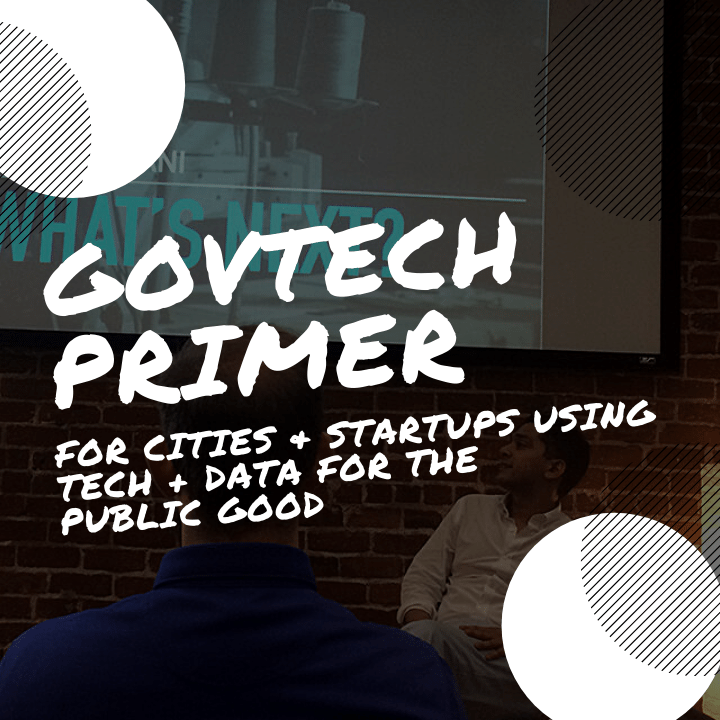
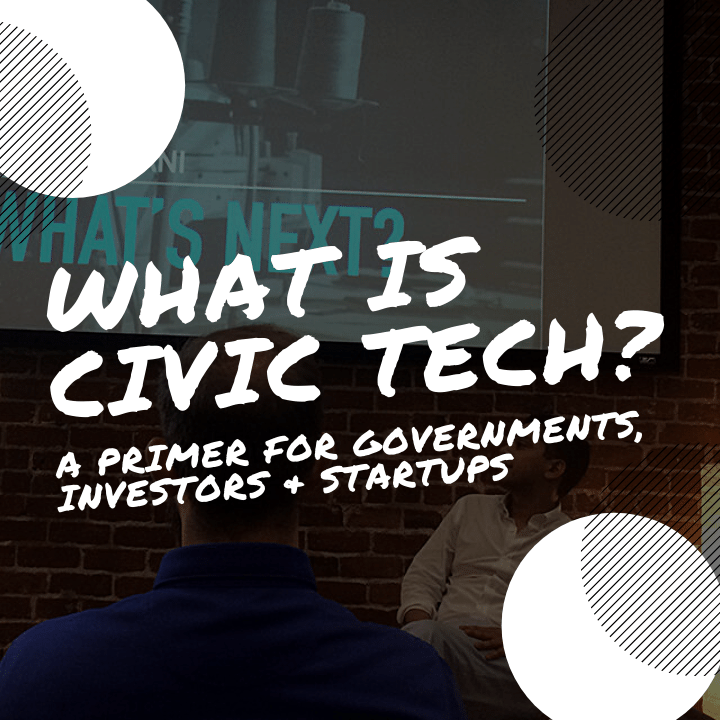
edited academy

Changed region(s): [[0.0611, 0.275, 0.9472, 0.7639]]

diff --git a/academy.html b/academy.html
@@ -38,7 +38,7 @@ img: pia-social.png
                 <div class="wp-content">
                     <div class="wrap wrap-center">
                         <h2>Introductory Lessons<a name="lessons"></a></h2>
-                        <div class="block-columns gallery-columns columns-4 wide-columns lightgallery-off">
+                        <div class="block-columns gallery-columns columns-3 wide-columns lightgallery-off">
 							
 							{% for lesson in site.lessons %}
                             <div class="block-column">

diff --git a/_lessons/1-primer.md b/_lessons/1-primer.md
@@ -1,25 +1,30 @@
 ---
 layout: page
-title: The Primer
-subhead: Introductory deck on civic tech
+title: Civic Tech & Smart Cities Primer
+subhead: Background materials on the definition and impact of civic technology 
 categories: Academy
 img: pia-header.png
 socialimg: pia-social.png
 pubdate: Updated 2021
 number: 1
-permalink: /lessons/primer/
+permalink: /academy/primer/
 ---
-I’m often tasked with giving an introduction on local government innovation — to new mayors, potential investors, etc — and after a couple dozen hacked together presentations, I decided to put some effort into it, and put together this document.
+What is civic technology? This primer reviews three key areas of impact from the last few years: digital services, data science/analytics, and civic entrepreneurship. It closes with a high-level set of recommendations including policy and staffing. The document serves as a presentation or a leave behind.
+
+## 21st Century Cities & Civic Technology Primer
 
 <div class="container-iframe">
 <iframe id="pdf-js-viewer" src="{{site.url}}/decks/web/viewer.html?file={{site.url}}/decks/%2F21stCitiesPrimer.pdf" title="webviewer" frameborder="0" class="responsive-iframe"></iframe>
 </div>
 <a href="{{site.url}}/decks/web/viewer.html?file={{site.url}}/decks/%2F21stCitiesPrimer.pdf">Open PDF in Browser</a>
 
-Since the definition of a “21st Century City” seems elusive, or controversial, I did what I do: tell some stories.
+## Industry Deep Dive
 
-It’s a kind of “greatest hits” with simple examples and takeaways from three key areas of impact from the last few years: digital services, data science/analytics, and civic entrepreneurship. It closes with a high-level set of recommendations including policy and staffing. This way it works as a presentation or a leave behind.
+Over the last 10+ years, hundreds of governments have expirimented with thousands of new approaches to address age old policy and adminstrative issues. Some worked, some didn't — most fall somewhere in between. This presentation charts the themes in public innovation, marked with real-world examples with directions on where to learn more.
 
-I’ve found it helpful in various setting — conferences, pitches, and just casual conversations — so in the interest of transparency, I figured I’d share it publicly.
+<div class="container-iframe">
+<iframe id="pdf-js-viewer" src="{{site.url}}/decks/web/viewer.html?file={{site.url}}/decks/lectures/CAPP2.pdf" title="webviewer" frameborder="0" width="500" height="600" class="responsive-iframe"></iframe>
+</div>
+<a href="{{site.url}}/decks/web/viewer.html?file={{site.url}}/decks/lectures/CAPP2.pdf">Open PDF in Browser</a>
 
-Share, comment, and critique freely.
+If you're interested in learning more about these examples, <a href="mailto:abhi.nemani@gmail.com">don't hesitate to get in touch</a>

diff --git a/index.md b/index.md
@@ -176,7 +176,7 @@ img: main-social.jpg
 						<div class="block-column">
 							<figure class="block-caption img-caption">
 								<div class="img-wrap">
-									<a href="{{site.url}}/primer/">
+									<a href="{{site.url}}/academy/primer/">
 										<img src="{{site.url}}/img/lessons/1.png" alt="GovTech Primer">
 									</a>
 								</div>
@@ -185,21 +185,21 @@ img: main-social.jpg
 						<div class="block-column">
 							<figure class="block-caption img-caption">
 								<div class="img-wrap">
-									<a href="{{site.url}}/lessons/ecosystem/"><img src="{{site.url}}/img/lessons/8.png" alt="City Hall 101"></a>
+									<a href="{{site.url}}/academy/city-101/"><img src="{{site.url}}/img/lessons/8.png" alt="City Hall 101"></a>
 								</div>
 							</figure>
 						</div>
 						<div class="block-column">
 							<figure class="block-caption img-caption">
 								<div class="img-wrap">
-									<a href="{{site.url}}/blog/"><img src="{{site.url}}/img/lessons/7.png" alt="Essays"></a>
+									<a href="{{site.url}}/academy/careers/"><img src="{{site.url}}/img/lessons/10.png" alt="Getting Started in Civic Tech"></a>
 								</div>
 							</figure>
 						</div>
 						<div class="block-column">
 							<figure class="block-caption img-caption">
 								<div class="img-wrap">
-									<a href="{{site.url}}/resources/"><img src="{{site.url}}/img/lessons/10.png" alt="Getting Started"></a>
+									<a href="{{site.url}}/academy/data-policy"><img src="{{site.url}}/img/lessons/7.png" alt="Data Driven Policy Making"></a>
 								</div>
 							</figure>
 						</div>

diff --git a/_lessons/5-it-spending.md b/_lessons/5-it-spending.md
@@ -7,7 +7,7 @@ pubdate: 2021
 img: pia-header.png
 pubdate: Updated 2021
 number: 3
-permalink: /lessons/it-spending/
+permalink: /academy/it-spending/
 ---
 ![2021 US Government IT Spending Overview](/img/gt-market-overview.png)
 

diff --git a/_lessons/4-resources.md b/_lessons/4-resources.md
@@ -6,7 +6,7 @@ categories: Academy
 pubdate: Updated, 2021
 img: pia-header.png
 number: 10
-permalink: /lessons/careers/
+permalink: /academy/careers/
 ---
 
 ## Advice for Starting in CivicTech / GovTech

diff --git a/_lessons/6-lean.md b/_lessons/6-lean.md
@@ -7,7 +7,7 @@ pubdate: 2021
 img: pia-header.png
 pubdate: Updated 2021
 number: 6
-permalink: /lessons/lean/
+permalink: /academy/lean/
 ---
 ## 21st Century Civic Tech = Lean
 

diff --git a/_lessons/7-data-policy.md b/_lessons/7-data-policy.md
@@ -7,7 +7,7 @@ pubdate: 2021
 img: pia-header.png
 pubdate: Updated 2021
 number: 7
-permalink: /lessons/data-policy/
+permalink: /academy/data-policy/
 ---
 ## An Introduction
 

diff --git a/_lessons/2-cityhall.md b/_lessons/2-cityhall.md
@@ -7,7 +7,7 @@ pubdate: 2021
 img: pia-header.png
 pubdate: Updated 2021
 number: 8
-permalink: /lessons/city-101/
+permalink: /academy/city-101/
 ---
 
 ## Guide: City Hall 101

diff --git a/_posts/_drafts/5-hacks.md b/_posts/_drafts/5-hacks.md
@@ -7,7 +7,7 @@ pubdate: 2021
 img: pia-header.png
 pubdate: Updated 2021
 number: 5
-permalink: /lessons/toolkit/
+permalink: /academy/toolkit/
 ---
 ## A GovGeek's Toolkit
 

diff --git a/_posts/_drafts/2-ecosystem.md b/_posts/_drafts/2-ecosystem.md
@@ -10,7 +10,7 @@ number: 2
 tags: 
 - Ecosystem
 - SaaS
-permalink: /lessons/ecosystem/
+permalink: /academy/ecosystem/
 ---
 ## What's Working, Where
 
